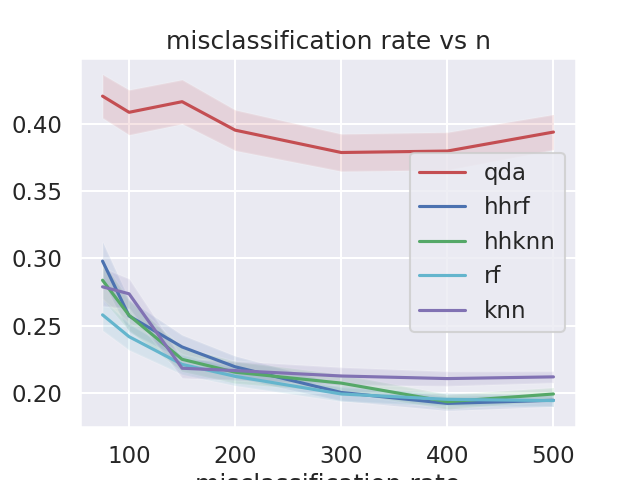
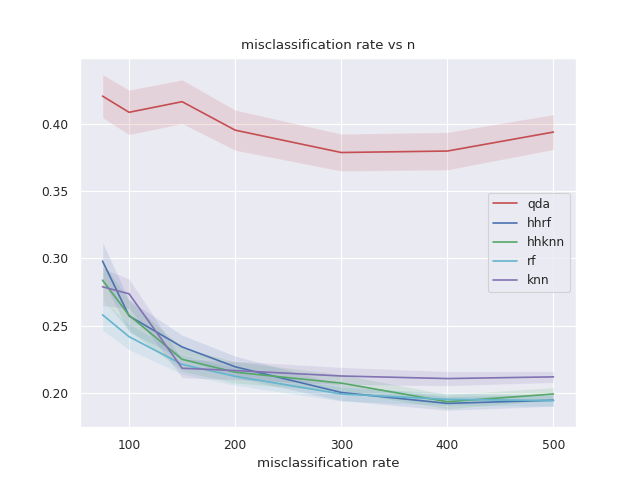
dcsbm experiments take 2

diff --git a/experiments/vertex_classification_with_node_covariates/DCSBM/vc_nc.py b/experiments/vertex_classification_with_node_covariates/DCSBM/vc_nc.py
@@ -4,7 +4,7 @@ import seaborn as sns
 sns.set()
 import _pickle as pickle
 import time
-sns.set_context("talk")
+sns.set_context("paper")
 
 np.random.seed(2)
 
